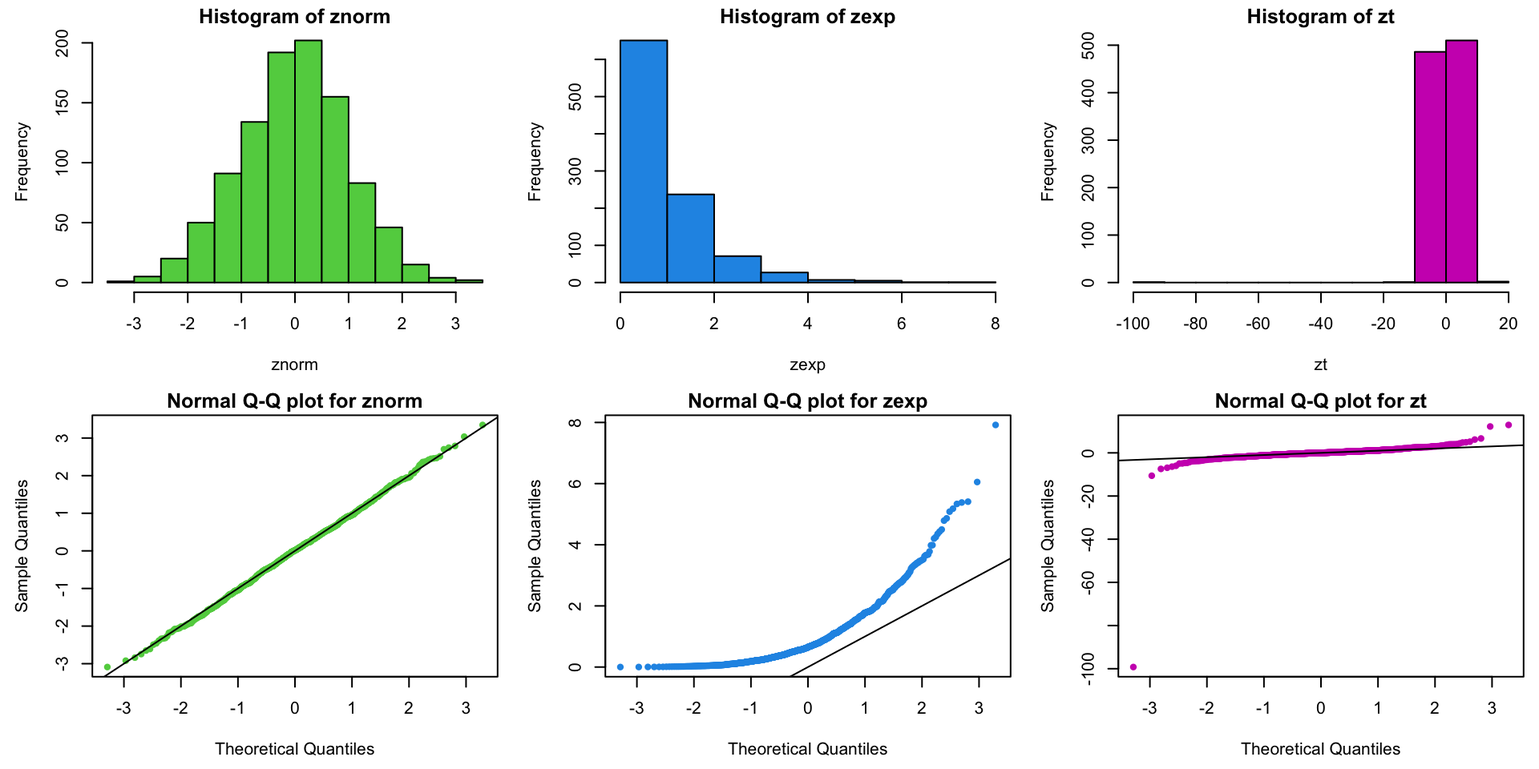
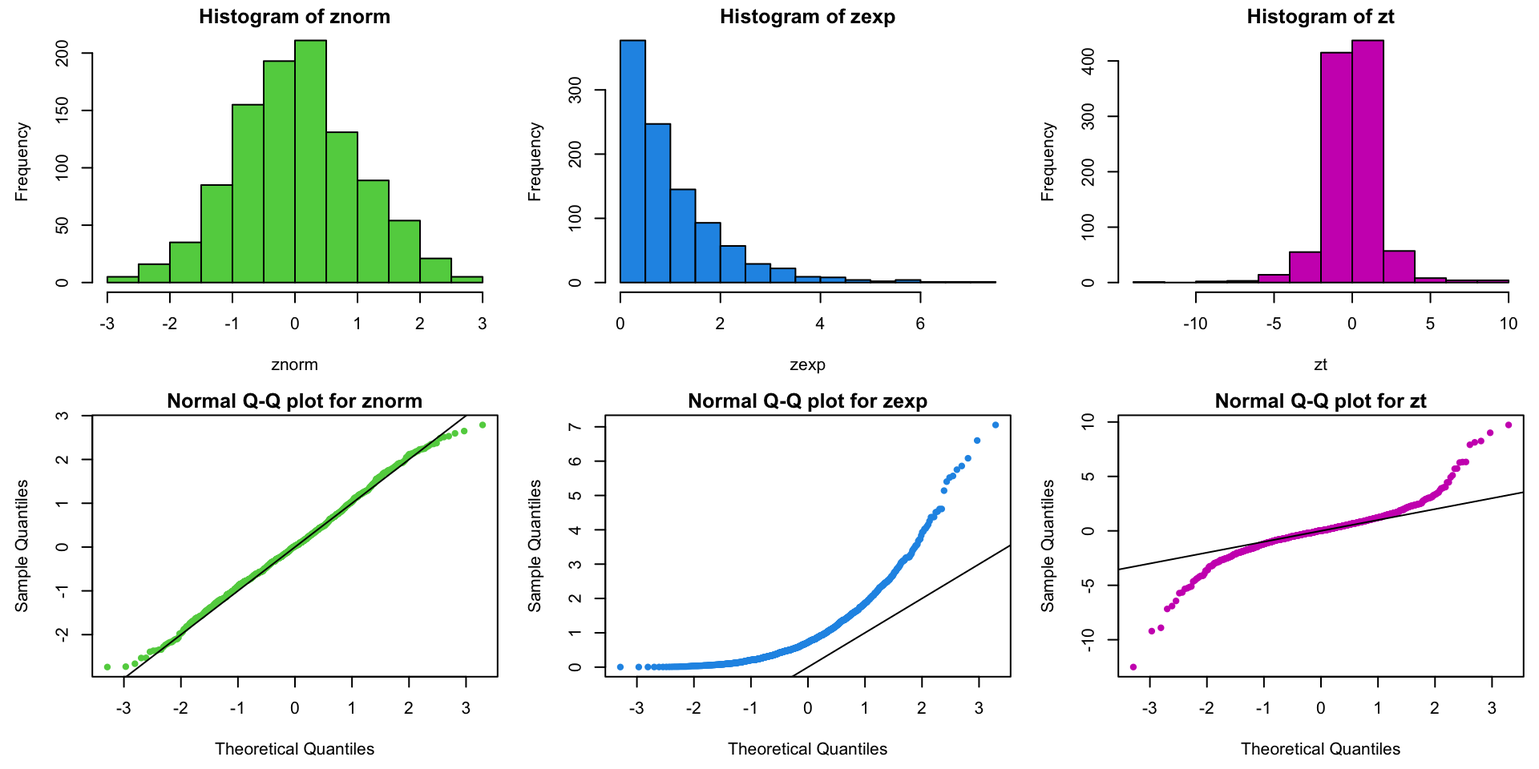
removed link to slides

diff --git a/docs/VB_GP_slides.html b/docs/VB_GP_slides.html
@@ -342,8 +342,8 @@ The VectorByte Team (Parul Vijay Patil, Leah R. Johnson, Robert B. Gramacy)
 </div><div class="column fragment" style="width:45%;">
 <div class="cell" data-layout-align="center" data-warn.conflicts="false">
 <div class="cell-output-display">
-<div id="htmlwidget-1a70272bc7d4cf4871d5" style="width:765px;height:680px;" class="plotly html-widget"></div>
-<script type="application/json" data-for="htmlwidget-1a70272bc7d4cf4871d5">{"x":{"data":[{"x":[1,2,3],"y":[1,2,3,4,5,6,7,8],"z":[[0.83854564287282596,0.0040540528931863606,0],[0.97004530227070951,0.12736969053121722,1.4998383143263291e-11],[0.22400145558191503,0.79879675155276531,5.3278118065915297e-08],[0.010325311855410614,1,3.777656180895761e-05],[9.5005561288327519e-05,0.2498948024833314,0.0053467451951872205],[1.7449717083996346e-07,0.012465449978020028,0.15106020181034377],[6.3975773827494506e-11,0.00012412298482309403,0.85193046086798951],[3.8392630193316615e-15,2.4671182903357261e-07,0.959073180262217]],"text":[["Xi: Xp1<br />Xj: X1<br />Cov: 7.551475e-01","Xi: Xp2<br />Xj: X1<br />Cov: 3.650854e-03","Xi: Xp3<br />Xj: X1<br />Cov: 7.590798e-16"],["Xi: Xp1<br />Xj: X2<br />Cov: 8.735688e-01","Xi: Xp2<br />Xj: X2<br />Cov: 1.147021e-01","Xi: Xp3<br />Xj: X2<br />Cov: 1.350747e-11"],["Xi: Xp1<br />Xj: X3<br />Cov: 2.017232e-01","Xi: Xp2<br />Xj: X3<br />Cov: 7.193519e-01","Xi: Xp3<br />Xj: X3<br />Cov: 4.797931e-08"],["Xi: Xp1<br />Xj: X4<br />Cov: 9.298401e-03","Xi: Xp2<br />Xj: X4<br />Cov: 9.005444e-01","Xi: Xp3<br />Xj: X4<br />Cov: 3.401947e-05"],["Xi: Xp1<br />Xj: X5<br />Cov: 8.555672e-05","Xi: Xp2<br />Xj: X5<br />Cov: 2.250414e-01","Xi: Xp3<br />Xj: X5<br />Cov: 4.814981e-03"],["Xi: Xp1<br />Xj: X6<br />Cov: 1.571424e-07","Xi: Xp2<br />Xj: X6<br />Cov: 1.122569e-02","Xi: Xp3<br />Xj: X6<br />Cov: 1.360364e-01"],["Xi: Xp1<br />Xj: X7<br />Cov: 5.761378e-11","Xi: Xp2<br />Xj: X7<br />Cov: 1.117783e-04","Xi: Xp3<br />Xj: X7<br />Cov: 7.672012e-01"],["Xi: Xp1<br />Xj: X8<br />Cov: 4.216506e-15","Xi: Xp2<br />Xj: X8<br />Cov: 2.221749e-07","Xi: Xp3<br />Xj: X8<br />Cov: 8.636879e-01"]],"colorscale":[[0,"#FAEBDD"],[3.8392630193316615e-15,"#FAEBDD"],[1.4998383143263291e-11,"#FAEBDD"],[6.3975773827494506e-11,"#FAEBDD"],[5.3278118065915297e-08,"#FAEBDD"],[1.7449717083996346e-07,"#FAEBDD"],[2.4671182903357261e-07,"#FAEBDD"],[3.777656180895761e-05,"#FAEBDD"],[9.5005561288327519e-05,"#FAEBDD"],[0.00012412298482309403,"#FAEBDD"],[0.0040540528931863606,"#FAEADB"],[0.0053467451951872205,"#FAE9DB"],[0.010325311855410614,"#FAE8D8"],[0.012465449978020028,"#FAE7D7"],[0.12736969053121722,"#F9C3A4"],[0.15106020181034377,"#F9BC9A"],[0.22400145558191503,"#F6A57D"],[0.2498948024833314,"#F69C75"],[0.79879675155276531,"#901D5B"],[0.83854564287282596,"#831E58"],[0.85193046086798951,"#7E1E57"],[0.959073180262217,"#5A1E4E"],[0.97004530227070951,"#561E4D"],[1,"#4C1D4B"]],"type":"heatmap","showscale":false,"autocolorscale":false,"showlegend":false,"xaxis":"x","yaxis":"y","hoverinfo":"text","frame":null},{"x":[1],"y":[1],"name":"3c7485c3c7fe91cd17012a7af8bb2812","type":"scatter","mode":"markers","opacity":0,"hoverinfo":"skip","showlegend":false,"marker":{"color":[0,1],"colorscale":[[0,"#FAEBDD"],[0.0033444816053511705,"#FAEADB"],[0.006688963210702341,"#FAE9DA"],[0.01003344481605351,"#FAE8D8"],[0.013377926421404682,"#FAE7D7"],[0.016722408026755852,"#FAE6D5"],[0.02006688963210702,"#FAE5D4"],[0.023411371237458192,"#FAE4D2"],[0.026755852842809364,"#FBE3D1"],[0.030100334448160532,"#FBE2CF"],[0.033444816053511704,"#FBE1CE"],[0.036789297658862873,"#FBE0CC"],[0.040133779264214041,"#FBDECB"],[0.043478260869565216,"#FBDDC9"],[0.046822742474916385,"#FBDCC8"],[0.05016722408026756,"#FBDBC6"],[0.053511705685618728,"#FBDAC5"],[0.05685618729096989,"#FBD9C3"],[0.060200668896321065,"#FBD8C2"],[0.06354515050167224,"#FBD7C0"],[0.066889632107023408,"#FBD6BF"],[0.070234113712374577,"#FBD5BD"],[0.073578595317725745,"#FBD4BC"],[0.076923076923076927,"#FBD3BB"],[0.080267558528428082,"#FBD2B9"],[0.08361204013377925,"#FAD1B8"],[0.086956521739130432,"#FAD0B6"],[0.090301003344481601,"#FACFB5"],[0.093645484949832769,"#FACEB3"],[0.096989966555183937,"#FACDB2"],[0.10033444816053512,"#FACCB0"],[0.10367892976588627,"#FACBAF"],[0.10702341137123746,"#FACAAD"],[0.11036789297658862,"#FAC9AC"],[0.11371237458193978,"#FAC8AA"],[0.11705685618729096,"#FAC7A9"],[0.12040133779264213,"#FAC6A7"],[0.1237458193979933,"#FAC5A6"],[0.12709030100334448,"#F9C4A4"],[0.13043478260869565,"#F9C2A3"],[0.13377926421404682,"#F9C1A2"],[0.13712374581939799,"#F9C0A0"],[0.14046822742474915,"#F9BF9F"],[0.14381270903010032,"#F9BE9D"],[0.14715719063545149,"#F9BD9C"],[0.15050167224080266,"#F9BC9A"],[0.15384615384615385,"#F8BB99"],[0.157190635451505,"#F8BA97"],[0.16053511705685616,"#F8B996"],[0.16387959866220736,"#F8B895"],[0.1672240802675585,"#F8B793"],[0.1705685618729097,"#F8B692"],[0.17391304347826086,"#F7B590"],[0.17725752508361203,"#F7B48F"],[0.1806020066889632,"#F7B38D"],[0.18394648829431437,"#F7B28C"],[0.18729096989966554,"#F7B18A"],[0.19063545150501673,"#F7B089"],[0.19397993311036787,"#F6AF88"],[0.19732441471571904,"#F6AE86"],[0.20066889632107024,"#F6AD85"],[0.20401337792642138,"#F6AC84"],[0.20735785953177255,"#F6AB83"],[0.21070234113712374,"#F6A982"],[0.21404682274247491,"#F6A880"],[0.21739130434782605,"#F6A77F"],[0.22073578595317725,"#F6A67E"],[0.22408026755852842,"#F6A57D"],[0.22742474916387956,"#F6A47C"],[0.23076923076923075,"#F6A37B"],[0.23411371237458192,"#F6A27A"],[0.23745819397993309,"#F6A079"],[0.24080267558528426,"#F69F78"],[0.24414715719063543,"#F69E77"],[0.2474916387959866,"#F69D76"],[0.25083612040133779,"#F69C75"],[0.25418060200668896,"#F69B73"],[0.25752508361204013,"#F69A72"],[0.2608695652173913,"#F69871"],[0.26421404682274247,"#F69770"],[0.26755852842809363,"#F6966F"],[0.2709030100334448,"#F6956E"],[0.27424749163879597,"#F6946D"],[0.27759197324414714,"#F6936C"],[0.28093645484949831,"#F6926B"],[0.28428093645484948,"#F5906A"],[0.28762541806020064,"#F58F69"],[0.29096989966555181,"#F58E68"],[0.29431438127090298,"#F58D67"],[0.29765886287625415,"#F58C66"],[0.30100334448160532,"#F58B65"],[0.30434782608695649,"#F58964"],[0.30769230769230771,"#F58863"],[0.31103678929765882,"#F58761"],[0.31438127090300999,"#F58660"],[0.31772575250836121,"#F5855F"],[0.32107023411371233,"#F5845E"],[0.3244147157190635,"#F4825D"],[0.32775919732441472,"#F4815C"],[0.33110367892976589,"#F4805B"],[0.334448160535117,"#F47F5A"],[0.33779264214046822,"#F47D59"],[0.34113712374581939,"#F47C58"],[0.34448160535117051,"#F47B57"],[0.34782608695652173,"#F47A56"],[0.3511705685618729,"#F37955"],[0.35451505016722407,"#F37754"],[0.35785953177257523,"#F37653"],[0.3612040133779264,"#F37552"],[0.36454849498327757,"#F37451"],[0.36789297658862874,"#F37250"],[0.37123745819397991,"#F2714F"],[0.37458193979933108,"#F2704E"],[0.37792642140468224,"#F26F4D"],[0.38127090301003347,"#F26D4C"],[0.38461538461538458,"#F26C4B"],[0.38795986622073575,"#F26B4A"],[0.39130434782608697,"#F16949"],[0.39464882943143809,"#F16848"],[0.39799331103678925,"#F16747"],[0.40133779264214048,"#F16646"],[0.40468227424749159,"#F06546"],[0.40802675585284276,"#F06446"],[0.41137123745819398,"#EF6346"],[0.4147157190635451,"#EF6247"],[0.41806020066889632,"#EE6147"],[0.42140468227424749,"#EE6047"],[0.4247491638795986,"#ED5F47"],[0.42809364548494983,"#ED5E47"],[0.43143812709030099,"#EC5D47"],[0.43478260869565211,"#EC5C47"],[0.43812709030100333,"#EB5B48"],[0.4414715719063545,"#EB5A48"],[0.44481605351170561,"#EA5948"],[0.44816053511705684,"#EA5848"],[0.451505016722408,"#E95748"],[0.45484949832775912,"#E95648"],[0.45819397993311034,"#E85548"],[0.46153846153846151,"#E85448"],[0.46488294314381268,"#E75349"],[0.46822742474916385,"#E75249"],[0.47157190635451501,"#E65149"],[0.47491638795986618,"#E65049"],[0.47826086956521735,"#E54F49"],[0.48160535117056852,"#E54E49"],[0.48494983277591969,"#E44D49"],[0.48829431438127086,"#E44C49"],[0.49163879598662208,"#E34B49"],[0.49498327759197319,"#E24A4A"],[0.49832775919732436,"#E2494A"],[0.50167224080267558,"#E1484A"],[0.50501672240802664,"#E1464A"],[0.50836120401337792,"#E0454A"],[0.51170568561872909,"#E0444A"],[0.51505016722408026,"#DF434A"],[0.51839464882943143,"#DF424A"],[0.52173913043478259,"#DE414A"],[0.52508361204013376,"#DE404A"],[0.52842809364548493,"#DD3E4A"],[0.5317725752508361,"#DD3D4B"],[0.53511705685618727,"#DC3C4B"],[0.53846153846153844,"#DC3B4B"],[0.5418060200668896,"#DB3A4B"],[0.54515050167224077,"#DB384B"],[0.54849498327759194,"#DA374B"],[0.55183946488294311,"#DA364B"],[0.55518394648829428,"#D9354B"],[0.55852842809364545,"#D9334B"],[0.56187290969899661,"#D8324B"],[0.56521739130434778,"#D8314B"],[0.56856187290969895,"#D72F4B"],[0.57190635451505012,"#D62E4B"],[0.57525083612040129,"#D62C4C"],[0.57859531772575246,"#D52B4C"],[0.58193979933110362,"#D5294C"],[0.58528428093645479,"#D4284C"],[0.58862876254180596,"#D4264C"],[0.59197324414715713,"#D3244C"],[0.5953177257525083,"#D3234C"],[0.59866220735785947,"#D2214C"],[0.60200668896321063,"#D1204C"],[0.6053511705685618,"#D0204C"],[0.60869565217391297,"#CF204D"],[0.61204013377926414,"#CE204D"],[0.61538461538461542,"#CD204D"],[0.61872909698996648,"#CC204E"],[0.62207357859531764,"#CB204E"],[0.62541806020066892,"#CA204E"],[0.62876254180601998,"#C9204E"],[0.63210702341137115,"#C7204F"],[0.63545150501672243,"#C61F4F"],[0.63879598662207349,"#C51F4F"],[0.64214046822742465,"#C41F4F"],[0.64548494983277593,"#C31F50"],[0.64882943143812699,"#C21F50"],[0.65217391304347827,"#C11F50"],[0.65551839464882944,"#C01F50"],[0.6588628762541805,"#BF1F51"],[0.66220735785953178,"#BE1F51"],[0.66555183946488294,"#BD1F51"],[0.668896321070234,"#BB1F52"],[0.67224080267558528,"#BA1F52"],[0.67558528428093645,"#B91F52"],[0.67892976588628751,"#B81F52"],[0.68227424749163879,"#B71F53"],[0.68561872909698995,"#B61F53"],[0.68896321070234101,"#B51F53"],[0.69230769230769229,"#B41F53"],[0.69565217391304346,"#B31F54"],[0.69899665551839463,"#B21F54"],[0.7023411371237458,"#B01F54"],[0.70568561872909696,"#AF1E54"],[0.70903010033444813,"#AE1E55"],[0.7123745819397993,"#AD1E55"],[0.71571906354515047,"#AC1E55"],[0.71906354515050164,"#AB1E55"],[0.72240802675585281,"#AA1E56"],[0.72575250836120397,"#A91E56"],[0.72909698996655514,"#A81E56"],[0.73244147157190631,"#A71E56"],[0.73578595317725748,"#A51E56"],[0.73913043478260865,"#A41E57"],[0.74247491638795982,"#A31E57"],[0.74581939799331098,"#A21E57"],[0.74916387959866215,"#A11E57"],[0.75250836120401343,"#A01E58"],[0.75585284280936449,"#9F1E58"],[0.75919732441471566,"#9E1E58"],[0.76254180602006694,"#9D1E58"],[0.76588628762541799,"#9B1E59"],[0.76923076923076916,"#9A1D59"],[0.77257525083612044,"#991D59"],[0.7759197324414715,"#981D59"],[0.77926421404682267,"#971D5A"],[0.78260869565217395,"#961D5A"],[0.785953177257525,"#951D5A"],[0.78929765886287617,"#941D5A"],[0.79264214046822745,"#921D5A"],[0.79598662207357851,"#911D5B"],[0.79933110367892968,"#901D5B"],[0.80267558528428096,"#8F1D5B"],[0.80602006688963201,"#8E1D5B"],[0.80936454849498318,"#8D1D5A"],[0.81270903010033446,"#8C1D5A"],[0.81605351170568552,"#8A1D5A"],[0.81939799331103669,"#891E59"],[0.82274247491638797,"#881E59"],[0.82608695652173902,"#871E59"],[0.82943143812709019,"#861E59"],[0.83277591973244147,"#851E58"],[0.83612040133779264,"#841E58"],[0.8394648829431437,"#821E58"],[0.84280936454849498,"#811E58"],[0.84615384615384615,"#801E57"],[0.8494983277591972,"#7F1E57"],[0.85284280936454848,"#7E1E57"],[0.85618729096989965,"#7D1E56"],[0.85953177257525071,"#7C1E56"],[0.86287625418060199,"#7B1E56"],[0.86622073578595316,"#791E56"],[0.86956521739130421,"#781E55"],[0.87290969899665549,"#771E55"],[0.87625418060200666,"#761E55"],[0.87959866220735772,"#751E55"],[0.882943143812709,"#741E54"],[0.88628762541806017,"#731E54"],[0.88963210702341122,"#711E54"],[0.8929765886287625,"#701E54"],[0.89632107023411367,"#6F1E53"],[0.89966555183946473,"#6E1E53"],[0.90301003344481601,"#6D1E53"],[0.90635451505016718,"#6C1E52"],[0.90969899665551823,"#6B1E52"],[0.91304347826086951,"#691E52"],[0.91638795986622068,"#681E52"],[0.91973244147157185,"#671E51"],[0.92307692307692302,"#661E51"],[0.92642140468227419,"#651E51"],[0.92976588628762535,"#641E51"],[0.93311036789297652,"#631E50"],[0.93645484949832769,"#621E50"],[0.93979933110367886,"#601E50"],[0.94314381270903003,"#5F1E50"],[0.9464882943143812,"#5E1E4F"],[0.94983277591973236,"#5D1E4F"],[0.95317725752508353,"#5C1E4F"],[0.9565217391304347,"#5B1E4E"],[0.95986622073578587,"#5A1E4E"],[0.96321070234113704,"#591E4E"],[0.96655518394648821,"#571E4E"],[0.96989966555183937,"#561E4D"],[0.97324414715719065,"#551E4D"],[0.97658862876254171,"#541E4D"],[0.97993311036789288,"#531D4D"],[0.98327759197324416,"#521D4C"],[0.98662207357859522,"#511D4C"],[0.98996655518394638,"#4F1D4C"],[0.99331103678929766,"#4E1D4C"],[0.99665551839464872,"#4D1D4B"],[1,"#4C1D4B"]],"colorbar":{"bgcolor":"rgba(255,255,255,1)","bordercolor":"transparent","borderwidth":1.8897637795275593,"thickness":30.236220472440948,"title":"Cov","titlefont":{"color":"rgba(0,0,0,1)","family":"","size":15.940224159402243},"tickmode":"array","ticktext":["0.25","0.50","0.75"],"tickvals":[0.27835116867306453,0.55503567067946324,0.83172017268586185],"tickfont":{"color":"rgba(0,0,0,1)","family":"","size":15.940224159402243},"ticklen":2,"len":0.5}},"xaxis":"x","yaxis":"y","frame":null}],"layout":{"margin":{"t":50.126095383780651,"r":18.897637795275585,"b":37.779063420310329,"l":37.779063420310329},"plot_bgcolor":"rgba(255,255,255,1)","paper_bgcolor":"rgba(255,255,255,1)","font":{"color":"rgba(0,0,0,1)","family":"","size":14.611872146118724},"title":{"text":"Sigma","font":{"color":"rgba(0,0,0,1)","family":"","size":26.567040265670411},"x":0.5,"xref":"paper"},"xaxis":{"domain":[0,1],"automargin":true,"type":"linear","autorange":false,"range":[0.40000000000000002,3.6000000000000001],"tickmode":"array","ticktext":["Xp1","Xp2","Xp3"],"tickvals":[1,2,3],"categoryorder":"array","categoryarray":["Xp1","Xp2","Xp3"],"nticks":null,"ticks":"outside","tickcolor":"rgba(51,51,51,1)","ticklen":3.6529680365296811,"tickwidth":0.66417600664176002,"showticklabels":true,"tickfont":{"color":"rgba(77,77,77,1)","family":"","size":26.567040265670411},"tickangle":-45,"showline":false,"linecolor":null,"linewidth":0,"showgrid":true,"gridcolor":"rgba(211,211,211,1)","gridwidth":0.66417600664176002,"zeroline":false,"anchor":"y","title":{"text":"","font":{"color":null,"family":null,"size":0}},"hoverformat":".2f"},"yaxis":{"domain":[0,1],"automargin":true,"type":"linear","autorange":false,"range":[0.40000000000000002,8.5999999999999996],"tickmode":"array","ticktext":["X1","X2","X3","X4","X5","X6","X7","X8"],"tickvals":[1,2,3,4,5,6,7,8],"categoryorder":"array","categoryarray":["X1","X2","X3","X4","X5","X6","X7","X8"],"nticks":null,"ticks":"outside","tickcolor":"rgba(51,51,51,1)","ticklen":3.6529680365296811,"tickwidth":0.66417600664176002,"showticklabels":true,"tickfont":{"color":"rgba(77,77,77,1)","family":"","size":26.567040265670411},"tickangle":-0,"showline":false,"linecolor":null,"linewidth":0,"showgrid":true,"gridcolor":"rgba(211,211,211,1)","gridwidth":0.66417600664176002,"zeroline":false,"anchor":"x","title":{"text":"","font":{"color":null,"family":null,"size":0}},"hoverformat":".2f"},"shapes":[{"type":"rect","fillcolor":null,"line":{"color":null,"width":0,"linetype":[]},"yref":"paper","xref":"paper","x0":0,"x1":1,"y0":0,"y1":1}],"showlegend":false,"legend":{"bgcolor":"rgba(255,255,255,1)","bordercolor":"transparent","borderwidth":1.8897637795275593,"font":{"color":"rgba(0,0,0,1)","family":"","size":15.940224159402243},"title":{"text":"Cov","font":{"color":"rgba(0,0,0,1)","family":"","size":15.940224159402243}}},"hovermode":"closest","width":765,"height":680,"barmode":"relative"},"config":{"doubleClick":"reset","modeBarButtonsToAdd":["hoverclosest","hovercompare"],"showSendToCloud":false},"source":"A","attrs":{"c835644b7240":{"x":{},"y":{},"fill":{},"type":"heatmap"}},"cur_data":"c835644b7240","visdat":{"c835644b7240":["function (y) ","x"]},"highlight":{"on":"plotly_click","persistent":false,"dynamic":false,"selectize":false,"opacityDim":0.20000000000000001,"selected":{"opacity":1},"debounce":0},"shinyEvents":["plotly_hover","plotly_click","plotly_selected","plotly_relayout","plotly_brushed","plotly_brushing","plotly_clickannotation","plotly_doubleclick","plotly_deselect","plotly_afterplot","plotly_sunburstclick"],"base_url":"https://plot.ly"},"evals":[],"jsHooks":[]}</script>
+<div id="htmlwidget-334c2eff2c3419dc5800" style="width:765px;height:680px;" class="plotly html-widget"></div>
+<script type="application/json" data-for="htmlwidget-334c2eff2c3419dc5800">{"x":{"data":[{"x":[1,2,3],"y":[1,2,3,4,5,6,7,8],"z":[[0.83854564287282596,0.0040540528931863606,0],[0.97004530227070951,0.12736969053121722,1.4998383143263291e-11],[0.22400145558191503,0.79879675155276531,5.3278118065915297e-08],[0.010325311855410614,1,3.777656180895761e-05],[9.5005561288327519e-05,0.2498948024833314,0.0053467451951872205],[1.7449717083996346e-07,0.012465449978020028,0.15106020181034377],[6.3975773827494506e-11,0.00012412298482309403,0.85193046086798951],[3.8392630193316615e-15,2.4671182903357261e-07,0.959073180262217]],"text":[["Xi: Xp1<br />Xj: X1<br />Cov: 7.551475e-01","Xi: Xp2<br />Xj: X1<br />Cov: 3.650854e-03","Xi: Xp3<br />Xj: X1<br />Cov: 7.590798e-16"],["Xi: Xp1<br />Xj: X2<br />Cov: 8.735688e-01","Xi: Xp2<br />Xj: X2<br />Cov: 1.147021e-01","Xi: Xp3<br />Xj: X2<br />Cov: 1.350747e-11"],["Xi: Xp1<br />Xj: X3<br />Cov: 2.017232e-01","Xi: Xp2<br />Xj: X3<br />Cov: 7.193519e-01","Xi: Xp3<br />Xj: X3<br />Cov: 4.797931e-08"],["Xi: Xp1<br />Xj: X4<br />Cov: 9.298401e-03","Xi: Xp2<br />Xj: X4<br />Cov: 9.005444e-01","Xi: Xp3<br />Xj: X4<br />Cov: 3.401947e-05"],["Xi: Xp1<br />Xj: X5<br />Cov: 8.555672e-05","Xi: Xp2<br />Xj: X5<br />Cov: 2.250414e-01","Xi: Xp3<br />Xj: X5<br />Cov: 4.814981e-03"],["Xi: Xp1<br />Xj: X6<br />Cov: 1.571424e-07","Xi: Xp2<br />Xj: X6<br />Cov: 1.122569e-02","Xi: Xp3<br />Xj: X6<br />Cov: 1.360364e-01"],["Xi: Xp1<br />Xj: X7<br />Cov: 5.761378e-11","Xi: Xp2<br />Xj: X7<br />Cov: 1.117783e-04","Xi: Xp3<br />Xj: X7<br />Cov: 7.672012e-01"],["Xi: Xp1<br />Xj: X8<br />Cov: 4.216506e-15","Xi: Xp2<br />Xj: X8<br />Cov: 2.221749e-07","Xi: Xp3<br />Xj: X8<br />Cov: 8.636879e-01"]],"colorscale":[[0,"#FAEBDD"],[3.8392630193316615e-15,"#FAEBDD"],[1.4998383143263291e-11,"#FAEBDD"],[6.3975773827494506e-11,"#FAEBDD"],[5.3278118065915297e-08,"#FAEBDD"],[1.7449717083996346e-07,"#FAEBDD"],[2.4671182903357261e-07,"#FAEBDD"],[3.777656180895761e-05,"#FAEBDD"],[9.5005561288327519e-05,"#FAEBDD"],[0.00012412298482309403,"#FAEBDD"],[0.0040540528931863606,"#FAEADB"],[0.0053467451951872205,"#FAE9DB"],[0.010325311855410614,"#FAE8D8"],[0.012465449978020028,"#FAE7D7"],[0.12736969053121722,"#F9C3A4"],[0.15106020181034377,"#F9BC9A"],[0.22400145558191503,"#F6A57D"],[0.2498948024833314,"#F69C75"],[0.79879675155276531,"#901D5B"],[0.83854564287282596,"#831E58"],[0.85193046086798951,"#7E1E57"],[0.959073180262217,"#5A1E4E"],[0.97004530227070951,"#561E4D"],[1,"#4C1D4B"]],"type":"heatmap","showscale":false,"autocolorscale":false,"showlegend":false,"xaxis":"x","yaxis":"y","hoverinfo":"text","frame":null},{"x":[1],"y":[1],"name":"3c7485c3c7fe91cd17012a7af8bb2812","type":"scatter","mode":"markers","opacity":0,"hoverinfo":"skip","showlegend":false,"marker":{"color":[0,1],"colorscale":[[0,"#FAEBDD"],[0.0033444816053511705,"#FAEADB"],[0.006688963210702341,"#FAE9DA"],[0.01003344481605351,"#FAE8D8"],[0.013377926421404682,"#FAE7D7"],[0.016722408026755852,"#FAE6D5"],[0.02006688963210702,"#FAE5D4"],[0.023411371237458192,"#FAE4D2"],[0.026755852842809364,"#FBE3D1"],[0.030100334448160532,"#FBE2CF"],[0.033444816053511704,"#FBE1CE"],[0.036789297658862873,"#FBE0CC"],[0.040133779264214041,"#FBDECB"],[0.043478260869565216,"#FBDDC9"],[0.046822742474916385,"#FBDCC8"],[0.05016722408026756,"#FBDBC6"],[0.053511705685618728,"#FBDAC5"],[0.05685618729096989,"#FBD9C3"],[0.060200668896321065,"#FBD8C2"],[0.06354515050167224,"#FBD7C0"],[0.066889632107023408,"#FBD6BF"],[0.070234113712374577,"#FBD5BD"],[0.073578595317725745,"#FBD4BC"],[0.076923076923076927,"#FBD3BB"],[0.080267558528428082,"#FBD2B9"],[0.08361204013377925,"#FAD1B8"],[0.086956521739130432,"#FAD0B6"],[0.090301003344481601,"#FACFB5"],[0.093645484949832769,"#FACEB3"],[0.096989966555183937,"#FACDB2"],[0.10033444816053512,"#FACCB0"],[0.10367892976588627,"#FACBAF"],[0.10702341137123746,"#FACAAD"],[0.11036789297658862,"#FAC9AC"],[0.11371237458193978,"#FAC8AA"],[0.11705685618729096,"#FAC7A9"],[0.12040133779264213,"#FAC6A7"],[0.1237458193979933,"#FAC5A6"],[0.12709030100334448,"#F9C4A4"],[0.13043478260869565,"#F9C2A3"],[0.13377926421404682,"#F9C1A2"],[0.13712374581939799,"#F9C0A0"],[0.14046822742474915,"#F9BF9F"],[0.14381270903010032,"#F9BE9D"],[0.14715719063545149,"#F9BD9C"],[0.15050167224080266,"#F9BC9A"],[0.15384615384615385,"#F8BB99"],[0.157190635451505,"#F8BA97"],[0.16053511705685616,"#F8B996"],[0.16387959866220736,"#F8B895"],[0.1672240802675585,"#F8B793"],[0.1705685618729097,"#F8B692"],[0.17391304347826086,"#F7B590"],[0.17725752508361203,"#F7B48F"],[0.1806020066889632,"#F7B38D"],[0.18394648829431437,"#F7B28C"],[0.18729096989966554,"#F7B18A"],[0.19063545150501673,"#F7B089"],[0.19397993311036787,"#F6AF88"],[0.19732441471571904,"#F6AE86"],[0.20066889632107024,"#F6AD85"],[0.20401337792642138,"#F6AC84"],[0.20735785953177255,"#F6AB83"],[0.21070234113712374,"#F6A982"],[0.21404682274247491,"#F6A880"],[0.21739130434782605,"#F6A77F"],[0.22073578595317725,"#F6A67E"],[0.22408026755852842,"#F6A57D"],[0.22742474916387956,"#F6A47C"],[0.23076923076923075,"#F6A37B"],[0.23411371237458192,"#F6A27A"],[0.23745819397993309,"#F6A079"],[0.24080267558528426,"#F69F78"],[0.24414715719063543,"#F69E77"],[0.2474916387959866,"#F69D76"],[0.25083612040133779,"#F69C75"],[0.25418060200668896,"#F69B73"],[0.25752508361204013,"#F69A72"],[0.2608695652173913,"#F69871"],[0.26421404682274247,"#F69770"],[0.26755852842809363,"#F6966F"],[0.2709030100334448,"#F6956E"],[0.27424749163879597,"#F6946D"],[0.27759197324414714,"#F6936C"],[0.28093645484949831,"#F6926B"],[0.28428093645484948,"#F5906A"],[0.28762541806020064,"#F58F69"],[0.29096989966555181,"#F58E68"],[0.29431438127090298,"#F58D67"],[0.29765886287625415,"#F58C66"],[0.30100334448160532,"#F58B65"],[0.30434782608695649,"#F58964"],[0.30769230769230771,"#F58863"],[0.31103678929765882,"#F58761"],[0.31438127090300999,"#F58660"],[0.31772575250836121,"#F5855F"],[0.32107023411371233,"#F5845E"],[0.3244147157190635,"#F4825D"],[0.32775919732441472,"#F4815C"],[0.33110367892976589,"#F4805B"],[0.334448160535117,"#F47F5A"],[0.33779264214046822,"#F47D59"],[0.34113712374581939,"#F47C58"],[0.34448160535117051,"#F47B57"],[0.34782608695652173,"#F47A56"],[0.3511705685618729,"#F37955"],[0.35451505016722407,"#F37754"],[0.35785953177257523,"#F37653"],[0.3612040133779264,"#F37552"],[0.36454849498327757,"#F37451"],[0.36789297658862874,"#F37250"],[0.37123745819397991,"#F2714F"],[0.37458193979933108,"#F2704E"],[0.37792642140468224,"#F26F4D"],[0.38127090301003347,"#F26D4C"],[0.38461538461538458,"#F26C4B"],[0.38795986622073575,"#F26B4A"],[0.39130434782608697,"#F16949"],[0.39464882943143809,"#F16848"],[0.39799331103678925,"#F16747"],[0.40133779264214048,"#F16646"],[0.40468227424749159,"#F06546"],[0.40802675585284276,"#F06446"],[0.41137123745819398,"#EF6346"],[0.4147157190635451,"#EF6247"],[0.41806020066889632,"#EE6147"],[0.42140468227424749,"#EE6047"],[0.4247491638795986,"#ED5F47"],[0.42809364548494983,"#ED5E47"],[0.43143812709030099,"#EC5D47"],[0.43478260869565211,"#EC5C47"],[0.43812709030100333,"#EB5B48"],[0.4414715719063545,"#EB5A48"],[0.44481605351170561,"#EA5948"],[0.44816053511705684,"#EA5848"],[0.451505016722408,"#E95748"],[0.45484949832775912,"#E95648"],[0.45819397993311034,"#E85548"],[0.46153846153846151,"#E85448"],[0.46488294314381268,"#E75349"],[0.46822742474916385,"#E75249"],[0.47157190635451501,"#E65149"],[0.47491638795986618,"#E65049"],[0.47826086956521735,"#E54F49"],[0.48160535117056852,"#E54E49"],[0.48494983277591969,"#E44D49"],[0.48829431438127086,"#E44C49"],[0.49163879598662208,"#E34B49"],[0.49498327759197319,"#E24A4A"],[0.49832775919732436,"#E2494A"],[0.50167224080267558,"#E1484A"],[0.50501672240802664,"#E1464A"],[0.50836120401337792,"#E0454A"],[0.51170568561872909,"#E0444A"],[0.51505016722408026,"#DF434A"],[0.51839464882943143,"#DF424A"],[0.52173913043478259,"#DE414A"],[0.52508361204013376,"#DE404A"],[0.52842809364548493,"#DD3E4A"],[0.5317725752508361,"#DD3D4B"],[0.53511705685618727,"#DC3C4B"],[0.53846153846153844,"#DC3B4B"],[0.5418060200668896,"#DB3A4B"],[0.54515050167224077,"#DB384B"],[0.54849498327759194,"#DA374B"],[0.55183946488294311,"#DA364B"],[0.55518394648829428,"#D9354B"],[0.55852842809364545,"#D9334B"],[0.56187290969899661,"#D8324B"],[0.56521739130434778,"#D8314B"],[0.56856187290969895,"#D72F4B"],[0.57190635451505012,"#D62E4B"],[0.57525083612040129,"#D62C4C"],[0.57859531772575246,"#D52B4C"],[0.58193979933110362,"#D5294C"],[0.58528428093645479,"#D4284C"],[0.58862876254180596,"#D4264C"],[0.59197324414715713,"#D3244C"],[0.5953177257525083,"#D3234C"],[0.59866220735785947,"#D2214C"],[0.60200668896321063,"#D1204C"],[0.6053511705685618,"#D0204C"],[0.60869565217391297,"#CF204D"],[0.61204013377926414,"#CE204D"],[0.61538461538461542,"#CD204D"],[0.61872909698996648,"#CC204E"],[0.62207357859531764,"#CB204E"],[0.62541806020066892,"#CA204E"],[0.62876254180601998,"#C9204E"],[0.63210702341137115,"#C7204F"],[0.63545150501672243,"#C61F4F"],[0.63879598662207349,"#C51F4F"],[0.64214046822742465,"#C41F4F"],[0.64548494983277593,"#C31F50"],[0.64882943143812699,"#C21F50"],[0.65217391304347827,"#C11F50"],[0.65551839464882944,"#C01F50"],[0.6588628762541805,"#BF1F51"],[0.66220735785953178,"#BE1F51"],[0.66555183946488294,"#BD1F51"],[0.668896321070234,"#BB1F52"],[0.67224080267558528,"#BA1F52"],[0.67558528428093645,"#B91F52"],[0.67892976588628751,"#B81F52"],[0.68227424749163879,"#B71F53"],[0.68561872909698995,"#B61F53"],[0.68896321070234101,"#B51F53"],[0.69230769230769229,"#B41F53"],[0.69565217391304346,"#B31F54"],[0.69899665551839463,"#B21F54"],[0.7023411371237458,"#B01F54"],[0.70568561872909696,"#AF1E54"],[0.70903010033444813,"#AE1E55"],[0.7123745819397993,"#AD1E55"],[0.71571906354515047,"#AC1E55"],[0.71906354515050164,"#AB1E55"],[0.72240802675585281,"#AA1E56"],[0.72575250836120397,"#A91E56"],[0.72909698996655514,"#A81E56"],[0.73244147157190631,"#A71E56"],[0.73578595317725748,"#A51E56"],[0.73913043478260865,"#A41E57"],[0.74247491638795982,"#A31E57"],[0.74581939799331098,"#A21E57"],[0.74916387959866215,"#A11E57"],[0.75250836120401343,"#A01E58"],[0.75585284280936449,"#9F1E58"],[0.75919732441471566,"#9E1E58"],[0.76254180602006694,"#9D1E58"],[0.76588628762541799,"#9B1E59"],[0.76923076923076916,"#9A1D59"],[0.77257525083612044,"#991D59"],[0.7759197324414715,"#981D59"],[0.77926421404682267,"#971D5A"],[0.78260869565217395,"#961D5A"],[0.785953177257525,"#951D5A"],[0.78929765886287617,"#941D5A"],[0.79264214046822745,"#921D5A"],[0.79598662207357851,"#911D5B"],[0.79933110367892968,"#901D5B"],[0.80267558528428096,"#8F1D5B"],[0.80602006688963201,"#8E1D5B"],[0.80936454849498318,"#8D1D5A"],[0.81270903010033446,"#8C1D5A"],[0.81605351170568552,"#8A1D5A"],[0.81939799331103669,"#891E59"],[0.82274247491638797,"#881E59"],[0.82608695652173902,"#871E59"],[0.82943143812709019,"#861E59"],[0.83277591973244147,"#851E58"],[0.83612040133779264,"#841E58"],[0.8394648829431437,"#821E58"],[0.84280936454849498,"#811E58"],[0.84615384615384615,"#801E57"],[0.8494983277591972,"#7F1E57"],[0.85284280936454848,"#7E1E57"],[0.85618729096989965,"#7D1E56"],[0.85953177257525071,"#7C1E56"],[0.86287625418060199,"#7B1E56"],[0.86622073578595316,"#791E56"],[0.86956521739130421,"#781E55"],[0.87290969899665549,"#771E55"],[0.87625418060200666,"#761E55"],[0.87959866220735772,"#751E55"],[0.882943143812709,"#741E54"],[0.88628762541806017,"#731E54"],[0.88963210702341122,"#711E54"],[0.8929765886287625,"#701E54"],[0.89632107023411367,"#6F1E53"],[0.89966555183946473,"#6E1E53"],[0.90301003344481601,"#6D1E53"],[0.90635451505016718,"#6C1E52"],[0.90969899665551823,"#6B1E52"],[0.91304347826086951,"#691E52"],[0.91638795986622068,"#681E52"],[0.91973244147157185,"#671E51"],[0.92307692307692302,"#661E51"],[0.92642140468227419,"#651E51"],[0.92976588628762535,"#641E51"],[0.93311036789297652,"#631E50"],[0.93645484949832769,"#621E50"],[0.93979933110367886,"#601E50"],[0.94314381270903003,"#5F1E50"],[0.9464882943143812,"#5E1E4F"],[0.94983277591973236,"#5D1E4F"],[0.95317725752508353,"#5C1E4F"],[0.9565217391304347,"#5B1E4E"],[0.95986622073578587,"#5A1E4E"],[0.96321070234113704,"#591E4E"],[0.96655518394648821,"#571E4E"],[0.96989966555183937,"#561E4D"],[0.97324414715719065,"#551E4D"],[0.97658862876254171,"#541E4D"],[0.97993311036789288,"#531D4D"],[0.98327759197324416,"#521D4C"],[0.98662207357859522,"#511D4C"],[0.98996655518394638,"#4F1D4C"],[0.99331103678929766,"#4E1D4C"],[0.99665551839464872,"#4D1D4B"],[1,"#4C1D4B"]],"colorbar":{"bgcolor":"rgba(255,255,255,1)","bordercolor":"transparent","borderwidth":1.8897637795275593,"thickness":30.236220472440948,"title":"Cov","titlefont":{"color":"rgba(0,0,0,1)","family":"","size":15.940224159402243},"tickmode":"array","ticktext":["0.25","0.50","0.75"],"tickvals":[0.27835116867306453,0.55503567067946324,0.83172017268586185],"tickfont":{"color":"rgba(0,0,0,1)","family":"","size":15.940224159402243},"ticklen":2,"len":0.5}},"xaxis":"x","yaxis":"y","frame":null}],"layout":{"margin":{"t":50.126095383780651,"r":18.897637795275585,"b":37.779063420310329,"l":37.779063420310329},"plot_bgcolor":"rgba(255,255,255,1)","paper_bgcolor":"rgba(255,255,255,1)","font":{"color":"rgba(0,0,0,1)","family":"","size":14.611872146118724},"title":{"text":"Sigma","font":{"color":"rgba(0,0,0,1)","family":"","size":26.567040265670411},"x":0.5,"xref":"paper"},"xaxis":{"domain":[0,1],"automargin":true,"type":"linear","autorange":false,"range":[0.40000000000000002,3.6000000000000001],"tickmode":"array","ticktext":["Xp1","Xp2","Xp3"],"tickvals":[1,2,3],"categoryorder":"array","categoryarray":["Xp1","Xp2","Xp3"],"nticks":null,"ticks":"outside","tickcolor":"rgba(51,51,51,1)","ticklen":3.6529680365296811,"tickwidth":0.66417600664176002,"showticklabels":true,"tickfont":{"color":"rgba(77,77,77,1)","family":"","size":26.567040265670411},"tickangle":-45,"showline":false,"linecolor":null,"linewidth":0,"showgrid":true,"gridcolor":"rgba(211,211,211,1)","gridwidth":0.66417600664176002,"zeroline":false,"anchor":"y","title":{"text":"","font":{"color":null,"family":null,"size":0}},"hoverformat":".2f"},"yaxis":{"domain":[0,1],"automargin":true,"type":"linear","autorange":false,"range":[0.40000000000000002,8.5999999999999996],"tickmode":"array","ticktext":["X1","X2","X3","X4","X5","X6","X7","X8"],"tickvals":[1,2,3,4,5,6,7,8],"categoryorder":"array","categoryarray":["X1","X2","X3","X4","X5","X6","X7","X8"],"nticks":null,"ticks":"outside","tickcolor":"rgba(51,51,51,1)","ticklen":3.6529680365296811,"tickwidth":0.66417600664176002,"showticklabels":true,"tickfont":{"color":"rgba(77,77,77,1)","family":"","size":26.567040265670411},"tickangle":-0,"showline":false,"linecolor":null,"linewidth":0,"showgrid":true,"gridcolor":"rgba(211,211,211,1)","gridwidth":0.66417600664176002,"zeroline":false,"anchor":"x","title":{"text":"","font":{"color":null,"family":null,"size":0}},"hoverformat":".2f"},"shapes":[{"type":"rect","fillcolor":null,"line":{"color":null,"width":0,"linetype":[]},"yref":"paper","xref":"paper","x0":0,"x1":1,"y0":0,"y1":1}],"showlegend":false,"legend":{"bgcolor":"rgba(255,255,255,1)","bordercolor":"transparent","borderwidth":1.8897637795275593,"font":{"color":"rgba(0,0,0,1)","family":"","size":15.940224159402243},"title":{"text":"Cov","font":{"color":"rgba(0,0,0,1)","family":"","size":15.940224159402243}}},"hovermode":"closest","width":765,"height":680,"barmode":"relative"},"config":{"doubleClick":"reset","modeBarButtonsToAdd":["hoverclosest","hovercompare"],"showSendToCloud":false},"source":"A","attrs":{"d94830920052":{"x":{},"y":{},"fill":{},"type":"heatmap"}},"cur_data":"d94830920052","visdat":{"d94830920052":["function (y) ","x"]},"highlight":{"on":"plotly_click","persistent":false,"dynamic":false,"selectize":false,"opacityDim":0.20000000000000001,"selected":{"opacity":1},"debounce":0},"shinyEvents":["plotly_hover","plotly_click","plotly_selected","plotly_relayout","plotly_brushed","plotly_brushing","plotly_clickannotation","plotly_doubleclick","plotly_deselect","plotly_afterplot","plotly_sunburstclick"],"base_url":"https://plot.ly"},"evals":[],"jsHooks":[]}</script>
 </div>
 </div>
 </div></div>

diff --git a/docs/Stats_review.html b/docs/Stats_review.html
@@ -355,7 +355,7 @@ window.Quarto = {
 <li>discrete (numbers of items or successes)</li>
 <li>continuous (heights, times, weights)</li>
 </ul>
-<p>We usually use capital letters – e.g.&nbsp;<span class="math inline">X</span>, <span class="math inline">Y</span>, sometimes with bold or with subscripts – to denote the RVs. In contrast we use lower case letters, e.g.&nbsp;<span class="math inline">x</span>, <span class="math inline">y</span>, <span class="math inline">k</span>, to denote the values that the RV takes. For instance, lets say that the heights of the woman at Virginia Tech are the RV, <span class="math inline">X</span>, and <span class="math inline">X</span> has a normal distribution with mean 62 inches and variance 6<span class="math inline">^2</span>, i.e., <span class="math inline">X \sim \mathrm{N}(62,6^2)</span> distribution. Say we then observe the heights of 3 individuals drawn from this distribution – we would write this as: <span class="math inline">x=(</span> 65.2, 61.7, 56 <span class="math inline">)</span>.</p>
+<p>We usually use capital letters – e.g.&nbsp;<span class="math inline">X</span>, <span class="math inline">Y</span>, sometimes with bold or with subscripts – to denote the RVs. In contrast we use lower case letters, e.g.&nbsp;<span class="math inline">x</span>, <span class="math inline">y</span>, <span class="math inline">k</span>, to denote the values that the RV takes. For instance, lets say that the heights of the woman at Virginia Tech are the RV, <span class="math inline">X</span>, and <span class="math inline">X</span> has a normal distribution with mean 62 inches and variance 6<span class="math inline">^2</span>, i.e., <span class="math inline">X \sim \mathrm{N}(62,6^2)</span> distribution. Say we then observe the heights of 3 individuals drawn from this distribution – we would write this as: <span class="math inline">x=(</span> 68.6, 55.4, 73.5 <span class="math inline">)</span>.</p>
 <p><br> <br> </p>
 </section>
 <section id="probability-distributions" class="level1">
@@ -579,7 +579,7 @@ f(x)=\frac{1}{\sqrt{2\pi\sigma^2}}\exp{\left(-\frac{(x-\mu)^2}{2\sigma^2}\right)
 <div class="cell">
 <div class="sourceCode cell-code" id="cb3"><pre class="sourceCode r code-with-copy"><code class="sourceCode r"><span id="cb3-1"><a href="#cb3-1" aria-hidden="true" tabindex="-1"></a><span class="fu">rnorm</span>(<span class="dv">3</span>, <span class="at">mean=</span><span class="dv">0</span>, <span class="at">sd=</span><span class="dv">1</span>) <span class="do">## random draws</span></span></code><button title="Copy to Clipboard" class="code-copy-button"><i class="bi"></i></button></pre></div>
 <div class="cell-output cell-output-stdout">
-<pre><code>[1]  1.0347487 -1.2528088  0.5749458</code></pre>
+<pre><code>[1]  0.8098201 -0.2837177 -0.3902350</code></pre>
 </div>
 </div>
 <div class="cell">

diff --git a/docs/DengueForecastingChallenge.html b/docs/DengueForecastingChallenge.html
@@ -335,7 +335,6 @@ ul.task-list li input[type="checkbox"] {
 </tr>
 </tbody>
 </table>
-<p><a href="https://docs.google.com/presentation/d/1a5msRu0-FpL0Pl5fPiJdY8cL5A7b18s1TkjRVAymyXo/edit?usp=sharing">Group Presentation slides</a></p>
 
 
 </section>
